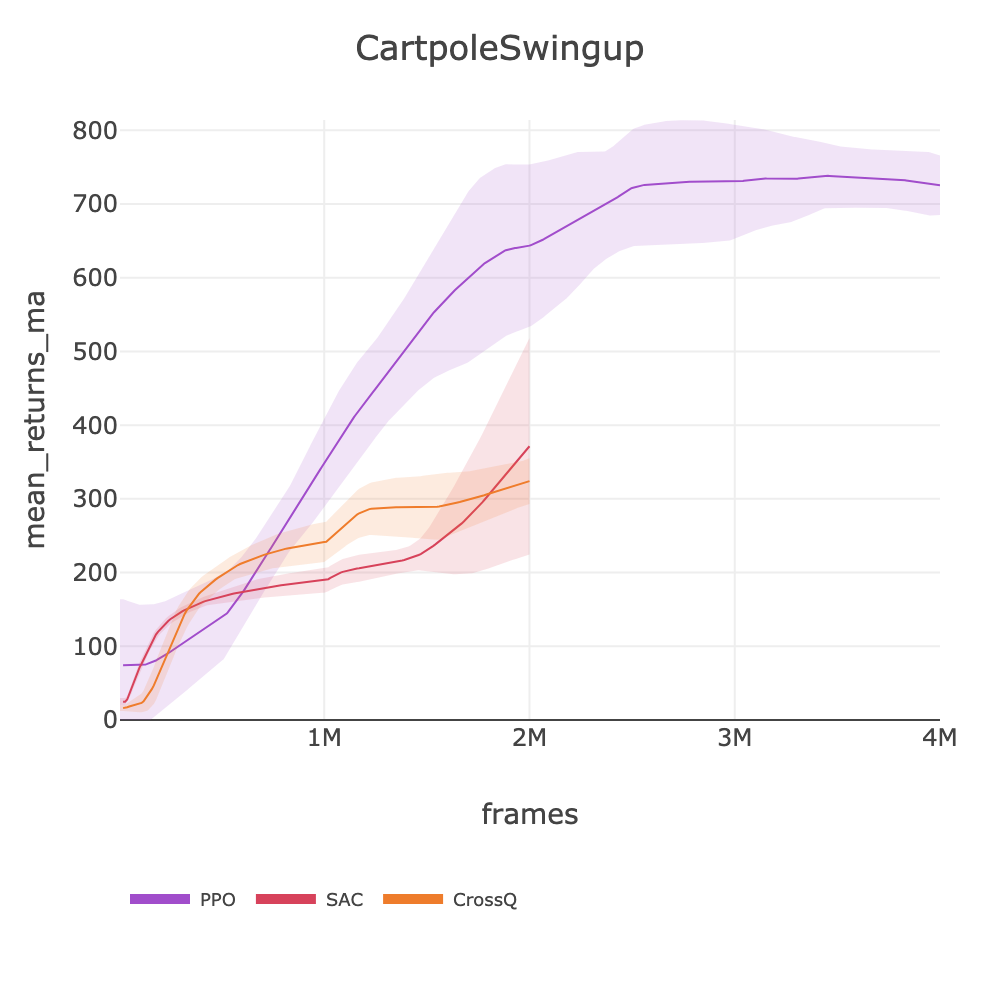
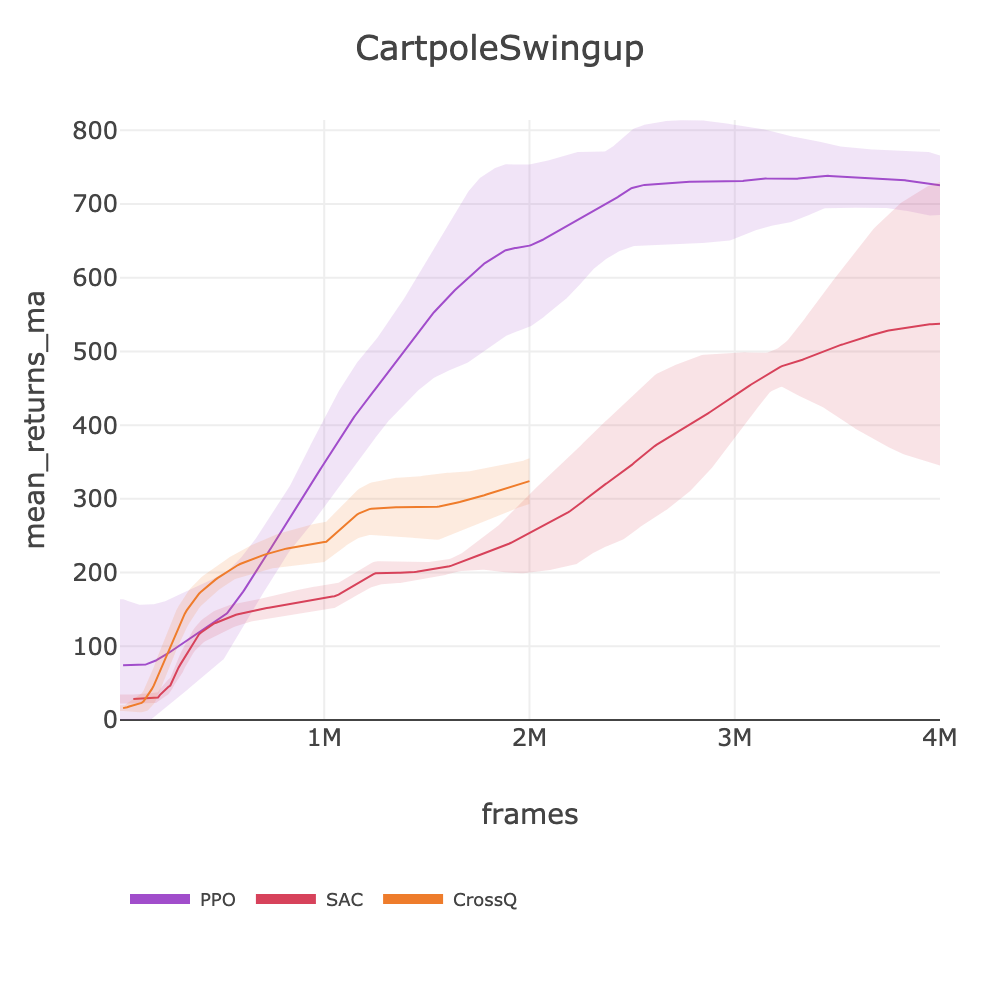
fix: DM Control gap fills batch 1 — CartpoleSwingup SAC 538, FingerSpin SAC 292, PointMass PPO 752

Changed region(s): [[0.217, 0.186, 0.961, 0.62], [0.124, 0.651, 0.155, 0.713], [0.186, 0.62, 0.217, 0.651]]

diff --git a/docs/BENCHMARKS.md b/docs/BENCHMARKS.md
@@ -807,7 +807,7 @@ source .env && slm-lab run-remote --gpu -s env=playground/CartpoleBalance -s max
 | | CrossQ | 163.11 | | ~790 (easy/16e) | 2M | ~0.7h | [crossq_playground_arc_easy_cartpolebalancesparse_2026_03_08_201227](https://huggingface.co/datasets/SLM-Lab/benchmark-dev/tree/main/data/crossq_playground_arc_easy_cartpolebalancesparse_2026_03_08_201227) |
 | playground/CartpoleSwingup | PPO | 725.55 | ~868 | ~320 (256e) | 4M | ~3.5h | [ppo_playground_arc_cartpoleswingup_2026_03_07_092749](https://huggingface.co/datasets/SLM-Lab/benchmark-dev/tree/main/data/ppo_playground_arc_cartpoleswingup_2026_03_07_092749) |
 | | CrossQ | 324.11 | | ~300 (easy/16e) | 2M | ~1.9h | [crossq_playground_arc_easy_cartpoleswingup_2026_03_07_185002](https://huggingface.co/datasets/SLM-Lab/benchmark-dev/tree/main/data/crossq_playground_arc_easy_cartpoleswingup_2026_03_07_185002) |
-| | SAC | 371.40 | | ~60 (hard/16e) | 1M | ~4.6h | [sac_playground_arc_cartpoleswingup_2026_03_06_130653](https://huggingface.co/datasets/SLM-Lab/benchmark-dev/tree/main/data/sac_playground_arc_cartpoleswingup_2026_03_06_130653) |
+| | SAC | 537.61 | | ~741 (fast/64e) | 4M | ~1.5h | [sac_playground_arc_fast_cartpoleswingup_2026_03_09_181310](https://huggingface.co/datasets/SLM-Lab/benchmark-dev/tree/main/data/sac_playground_arc_fast_cartpoleswingup_2026_03_09_181310) |
 | playground/CartpoleSwingupSparse | PPO | 545.07 | ~630 | ~420 (256e) | 4M | ~2.5h | [ppo_playground_arc_cartpoleswingupsparse_2026_03_07_100455](https://huggingface.co/datasets/SLM-Lab/benchmark-dev/tree/main/data/ppo_playground_arc_cartpoleswingupsparse_2026_03_07_100455) |
 | | CrossQ | 0.00 | | ~717 (easy/16e) | 2M | ~0.5h | [crossq_playground_arc_easy_cartpoleswingupsparse_2026_03_07_210420](https://huggingface.co/datasets/SLM-Lab/benchmark-dev/tree/main/data/crossq_playground_arc_easy_cartpoleswingupsparse_2026_03_07_210420) |
 | | SAC | 0.38 | | ~67 (hard/16e) | 1M | ~4.6h | [sac_playground_arc_utd1_cartpoleswingupsparse_2026_03_06_221127](https://huggingface.co/datasets/SLM-Lab/benchmark-dev/tree/main/data/sac_playground_arc_utd1_cartpoleswingupsparse_2026_03_06_221127) |
@@ -816,7 +816,7 @@ source .env && slm-lab run-remote --gpu -s env=playground/CartpoleBalance -s max
 | | SAC | 112.59 | | ~140 (fast/64e) | 2M | ~4h | [sac_playground_arc_cheetahrun_2026_03_06_094013](https://huggingface.co/datasets/SLM-Lab/benchmark-dev/tree/main/data/sac_playground_arc_cheetahrun_2026_03_06_094013) |
 | playground/FingerSpin | PPO | 416.99 | ~742 | ~410 (256e) | 4M | ~2.7h | [ppo_playground_arc_fingerspin_2026_03_07_100519](https://huggingface.co/datasets/SLM-Lab/benchmark-dev/tree/main/data/ppo_playground_arc_fingerspin_2026_03_07_100519) |
 | | CrossQ | 240.68 | | ~300 (easy/16e) | 2M | ~1.9h | [crossq_playground_arc_easy_fingerspin_2026_03_07_185137](https://huggingface.co/datasets/SLM-Lab/benchmark-dev/tree/main/data/crossq_playground_arc_easy_fingerspin_2026_03_07_185137) |
-| | SAC | 327.57 | | ~350 (fast/64e) | 1M | ~0.8h | [sac_playground_arc_fingerspin_2026_03_06_150750](https://huggingface.co/datasets/SLM-Lab/benchmark-dev/tree/main/data/sac_playground_arc_fingerspin_2026_03_06_150750) |
+| | SAC | 291.70 | | ~641 (fast/64e) | 4M | ~1.7h | [sac_playground_arc_fast_fingerspin_2026_03_09_180920](https://huggingface.co/datasets/SLM-Lab/benchmark-dev/tree/main/data/sac_playground_arc_fast_fingerspin_2026_03_09_180920) |
 | playground/FingerTurnEasy | PPO | 346.28 | ~709 | ~409 (256e) | 4M | ~2.7h | [ppo_playground_arc_fingerturneasy_2026_03_07_100527](https://huggingface.co/datasets/SLM-Lab/benchmark-dev/tree/main/data/ppo_playground_arc_fingerturneasy_2026_03_07_100527) |
 | | CrossQ | 364.69 | | ~300 (easy/16e) | 2M | ~1.9h | [crossq_playground_arc_easy_fingerturneasy_2026_03_07_185125](https://huggingface.co/datasets/SLM-Lab/benchmark-dev/tree/main/data/crossq_playground_arc_easy_fingerturneasy_2026_03_07_185125) |
 | | SAC | 408.73 | | ~350 (fast/64e) | 1M | ~0.8h | [sac_playground_arc_fingerturneasy_2026_03_06_134326](https://huggingface.co/datasets/SLM-Lab/benchmark-dev/tree/main/data/sac_playground_arc_fingerturneasy_2026_03_06_134326) |
@@ -846,7 +846,7 @@ source .env && slm-lab run-remote --gpu -s env=playground/CartpoleBalance -s max
 | playground/PendulumSwingup | PPO | 342.23 | ~959 | ~300 | 4M | ~3.7h | [ppo_playground_arc_pendulumswingup_2026_03_07_082244](https://huggingface.co/datasets/SLM-Lab/benchmark-dev/tree/main/data/ppo_playground_arc_pendulumswingup_2026_03_07_082244) |
 | | CrossQ | 0.00 | | ~600 (easy/16e) | 2M | ~0.9h | [crossq_playground_arc_easy_pendulumswingup_2026_03_08_201318](https://huggingface.co/datasets/SLM-Lab/benchmark-dev/tree/main/data/crossq_playground_arc_easy_pendulumswingup_2026_03_08_201318) |
 | | SAC | 0.00 | | ~350 (fast/64e) | 1M | ~0.8h | [sac_playground_arc_pendulumswingup_2026_03_06_150813](https://huggingface.co/datasets/SLM-Lab/benchmark-dev/tree/main/data/sac_playground_arc_pendulumswingup_2026_03_06_150813) |
-| playground/PointMass | PPO | 493.79 | ~988 | ~2000 (256e) | 500K | ~0.1h | [ppo_playground_arc_pointmass_2026_03_06_105141](https://huggingface.co/datasets/SLM-Lab/benchmark-dev/tree/main/data/ppo_playground_arc_pointmass_2026_03_06_105141) |
+| playground/PointMass | PPO | 752.49 | ~988 | ~315 (256e) | 2M | ~1.7h | [ppo_playground_arc_pointmass_2026_03_09_180951](https://huggingface.co/datasets/SLM-Lab/benchmark-dev/tree/main/data/ppo_playground_arc_pointmass_2026_03_09_180951) |
 | | SAC | 2.07 | | ~350 (fast/64e) | 500K | ~0.4h | [sac_playground_arc_fast_pointmass_2026_03_08_201255](https://huggingface.co/datasets/SLM-Lab/benchmark-dev/tree/main/data/sac_playground_arc_fast_pointmass_2026_03_08_201255) |
 | | CrossQ | 123.33 | | ~800 (easy/16e) | 500K | ~0.2h | [crossq_playground_arc_easy_pointmass_2026_03_08_201307](https://huggingface.co/datasets/SLM-Lab/benchmark-dev/tree/main/data/crossq_playground_arc_easy_pointmass_2026_03_08_201307) |
 | playground/ReacherEasy | PPO | 285.63 | ~945 | ~2000 (256e) | 500K | ~0.1h | [ppo_playground_arc_reachereasy_2026_03_06_102444](https://huggingface.co/datasets/SLM-Lab/benchmark-dev/tree/main/data/ppo_playground_arc_reachereasy_2026_03_06_102444) |
